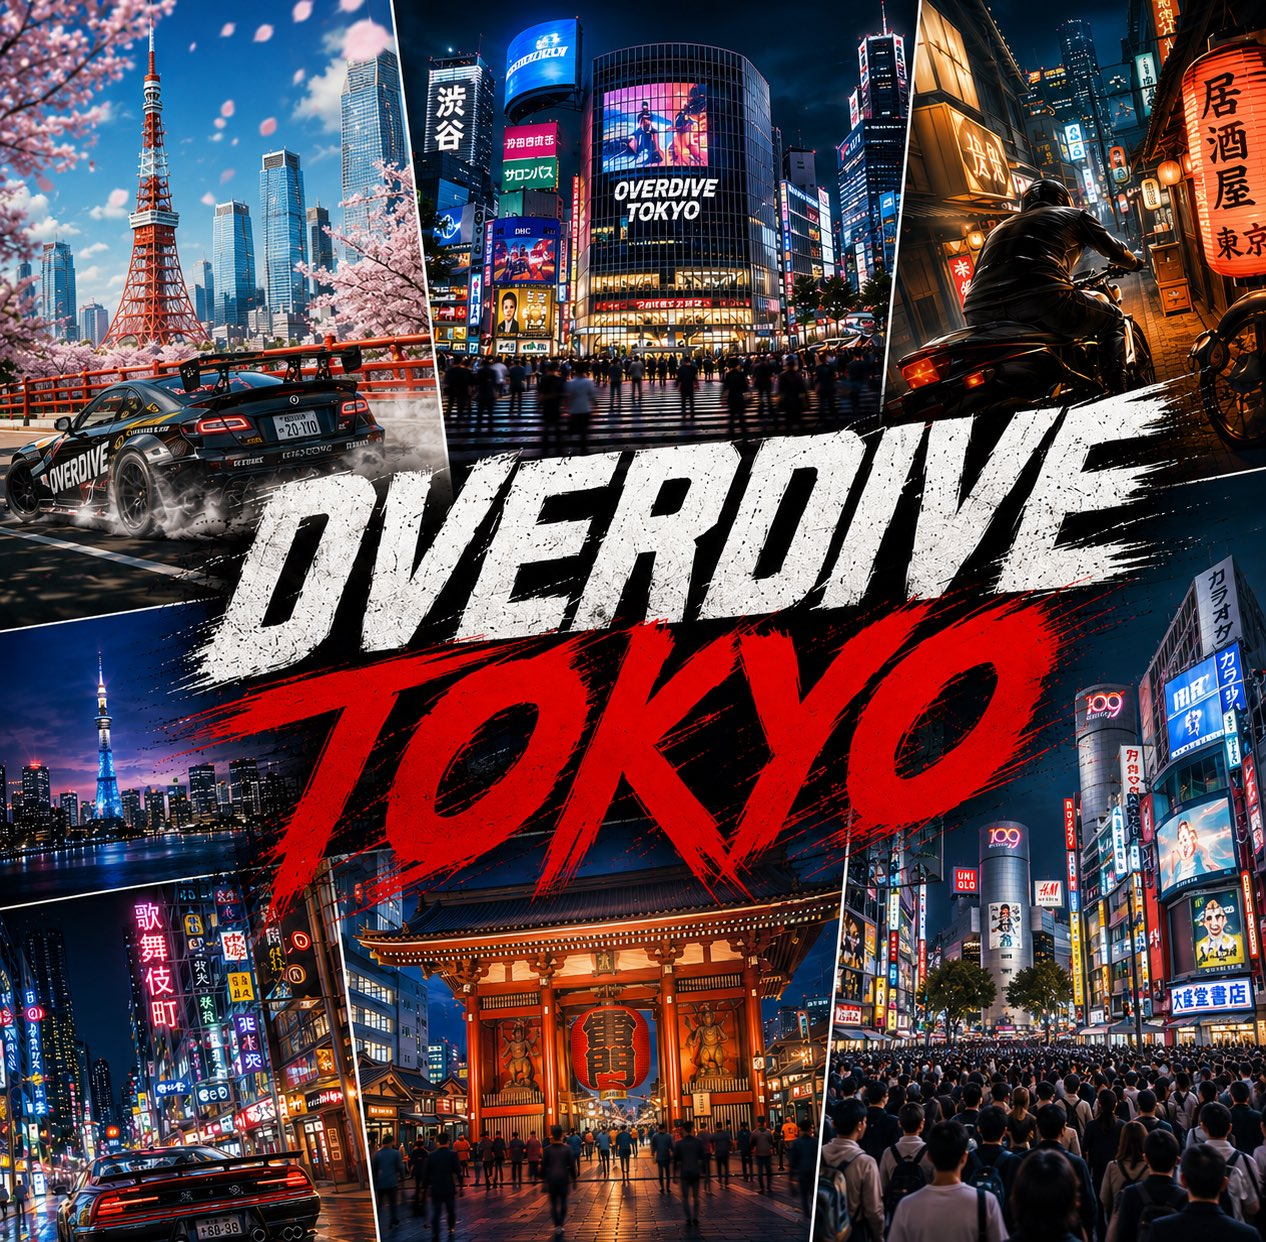
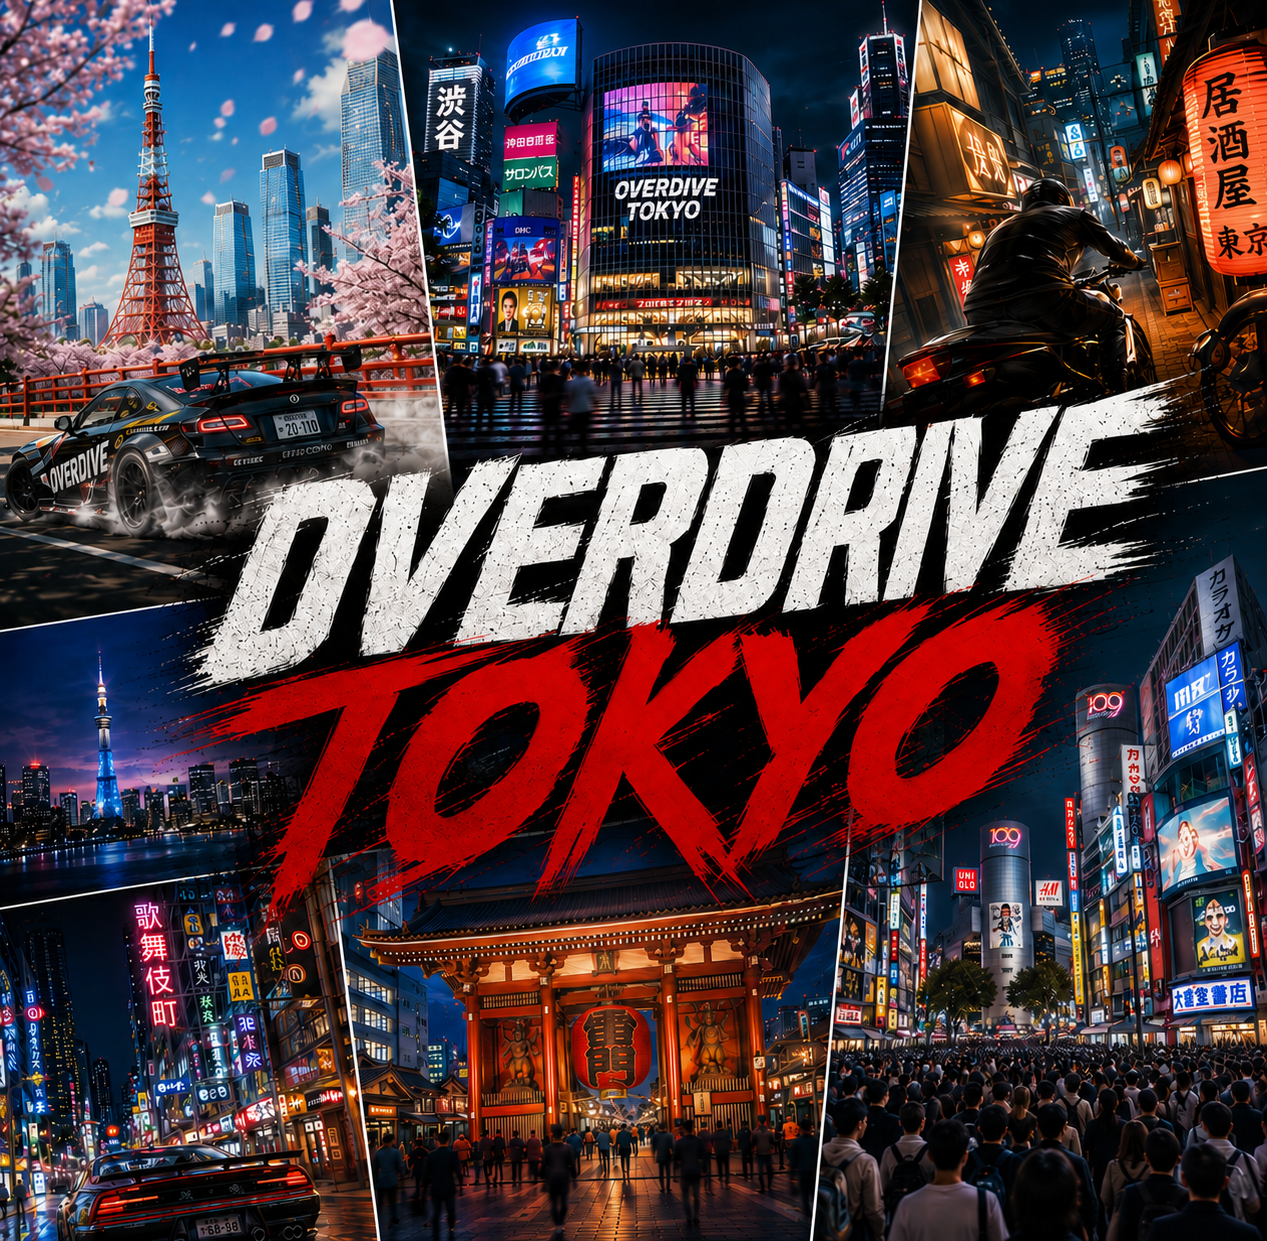
Fix city visibility: environment mapping, window normals, fog, neon density, and cover asset
- Added PMREM scene environment so metallic asphalt reflects light (was pure black)
- Fixed window and neon sign plane normals pointing inward; now visible and backface-culled outward
- Reduced fog density 0.024→0.0075 for better spatial depth
- Increased neon sign frequency (0.35→0.1 skip rate) and size (2.3→3.2 width)
- Added envIntensity parameter to lighting look for tuning reflection brightness
- Swapped cover.jpg with professional Tokyo asset

The game now reads as night Shibuya: lit windows, colorful neon, wet reflective streets, visible crowd.

diff --git a/src/city/city.ts b/src/city/city.ts
@@ -200,11 +200,12 @@ function addWindowWrap(
   lot: { x: number; z: number; width: number; depth: number; height: number },
   materials: CityMaterials,
 ): void {
+  // Each plane's normal must point away from the shell, or it is backface-culled.
   const faces = [
-    { x: lot.x, z: lot.z - lot.depth / 2 - 0.015, width: lot.width, rotation: 0 },
-    { x: lot.x, z: lot.z + lot.depth / 2 + 0.015, width: lot.width, rotation: Math.PI },
-    { x: lot.x - lot.width / 2 - 0.015, z: lot.z, width: lot.depth, rotation: Math.PI / 2 },
-    { x: lot.x + lot.width / 2 + 0.015, z: lot.z, width: lot.depth, rotation: -Math.PI / 2 },
+    { x: lot.x, z: lot.z - lot.depth / 2 - 0.015, width: lot.width, rotation: Math.PI },
+    { x: lot.x, z: lot.z + lot.depth / 2 + 0.015, width: lot.width, rotation: 0 },
+    { x: lot.x - lot.width / 2 - 0.015, z: lot.z, width: lot.depth, rotation: -Math.PI / 2 },
+    { x: lot.x + lot.width / 2 + 0.015, z: lot.z, width: lot.depth, rotation: Math.PI / 2 },
   ];
 
   for (const face of faces) {
@@ -223,7 +224,7 @@ function addNeonStack(
   lot: { x: number; z: number; width: number; depth: number; height: number },
   animatedSigns: Array<Mesh<PlaneGeometry, MeshBasicMaterial>>,
 ): void {
-  if (lot.height < look.buildings.minHeight + 5 || random() < 0.35) {
+  if (lot.height < look.buildings.minHeight + 5 || random() < 0.1) {
     return;
   }
 
@@ -248,11 +249,11 @@ function addNeonStack(
     if (face === "z") {
       sign.position.x = lot.x + (random() - 0.5) * lot.width * 0.45;
       sign.position.z = lot.z + direction * (lot.depth / 2 + 0.08);
-      sign.rotation.y = direction > 0 ? Math.PI : 0;
+      sign.rotation.y = direction > 0 ? 0 : Math.PI;
     } else {
       sign.position.x = lot.x + direction * (lot.width / 2 + 0.08);
       sign.position.z = lot.z + (random() - 0.5) * lot.depth * 0.45;
-      sign.rotation.y = direction > 0 ? -Math.PI / 2 : Math.PI / 2;
+      sign.rotation.y = direction > 0 ? Math.PI / 2 : -Math.PI / 2;
     }
 
     animatedSigns.push(sign);

diff --git a/src/city/look.ts b/src/city/look.ts
@@ -27,6 +27,7 @@ export type CityLook = {
     hemiIntensity: number;
     keyColor: string;
     keyIntensity: number;
+    envIntensity: number;
   };
   ground: {
     width: number;
@@ -74,7 +75,7 @@ export type CityLook = {
 export const cityLook: CityLook = {
   fog: {
     color: "#07111b",
-    density: 0.024,
+    density: 0.0075,
   },
   toneMapping: {
     exposure: 1.28,
@@ -100,6 +101,7 @@ export const cityLook: CityLook = {
     hemiIntensity: 0.74,
     keyColor: "#a8e8ff",
     keyIntensity: 1.85,
+    envIntensity: 0.13,
   },
   ground: {
     width: 180,
@@ -114,17 +116,17 @@ export const cityLook: CityLook = {
     blockSize: 18,
     rows: 8,
     columns: 7,
-    minHeight: 12,
-    maxHeight: 46,
+    minHeight: 16,
+    maxHeight: 58,
     baseColor: "#111722",
     windowEmissive: "#ffe8b4",
     windowIntensity: 1.85,
   },
   neon: {
     intensity: 3.8,
-    signWidth: 2.3,
-    signHeight: 7.2,
-    signsPerTallBuilding: 3,
+    signWidth: 3.2,
+    signHeight: 9,
+    signsPerTallBuilding: 5,
     colors: ["#ff2f8f", "#00e5ff", "#ffd23f", "#48ff7b", "#9157ff", "#ff5a36"],
     copy: ["ラーメン", "カラオケ", "ゲーム", "シネマ", "バー", "寿司", "渋谷", "ライブ"],
   },

diff --git a/src/render/lighting.ts b/src/render/lighting.ts
@@ -5,9 +5,11 @@ import {
   DirectionalLight,
   FogExp2,
   HemisphereLight,
+  PMREMGenerator,
   Scene,
   WebGLRenderer,
 } from "three";
+import { RoomEnvironment } from "three/examples/jsm/environments/RoomEnvironment.js";
 
 import { cityLook, type CityLook } from "../city/look";
 
@@ -37,6 +39,11 @@ export function createCityLighting(scene: Scene, renderer: WebGLRenderer, look: 
 
   scene.add(ambient, hemisphere, key);
 
+  // Without an environment the 0.78-metalness asphalt has nothing to reflect and renders pure black.
+  const pmrem = new PMREMGenerator(renderer);
+  scene.environment = pmrem.fromScene(new RoomEnvironment(), 0.04).texture;
+  pmrem.dispose();
+
   const applyLook = (nextLook: CityLook = look) => {
     scene.background = new Color(nextLook.fog.color);
     scene.fog = new FogExp2(nextLook.fog.color, nextLook.fog.density);
@@ -52,6 +59,7 @@ export function createCityLighting(scene: Scene, renderer: WebGLRenderer, look: 
     hemisphere.intensity = nextLook.lighting.hemiIntensity;
     key.color.set(nextLook.lighting.keyColor);
     key.intensity = nextLook.lighting.keyIntensity;
+    scene.environmentIntensity = nextLook.lighting.envIntensity;
   };
 
   applyLook(look);
